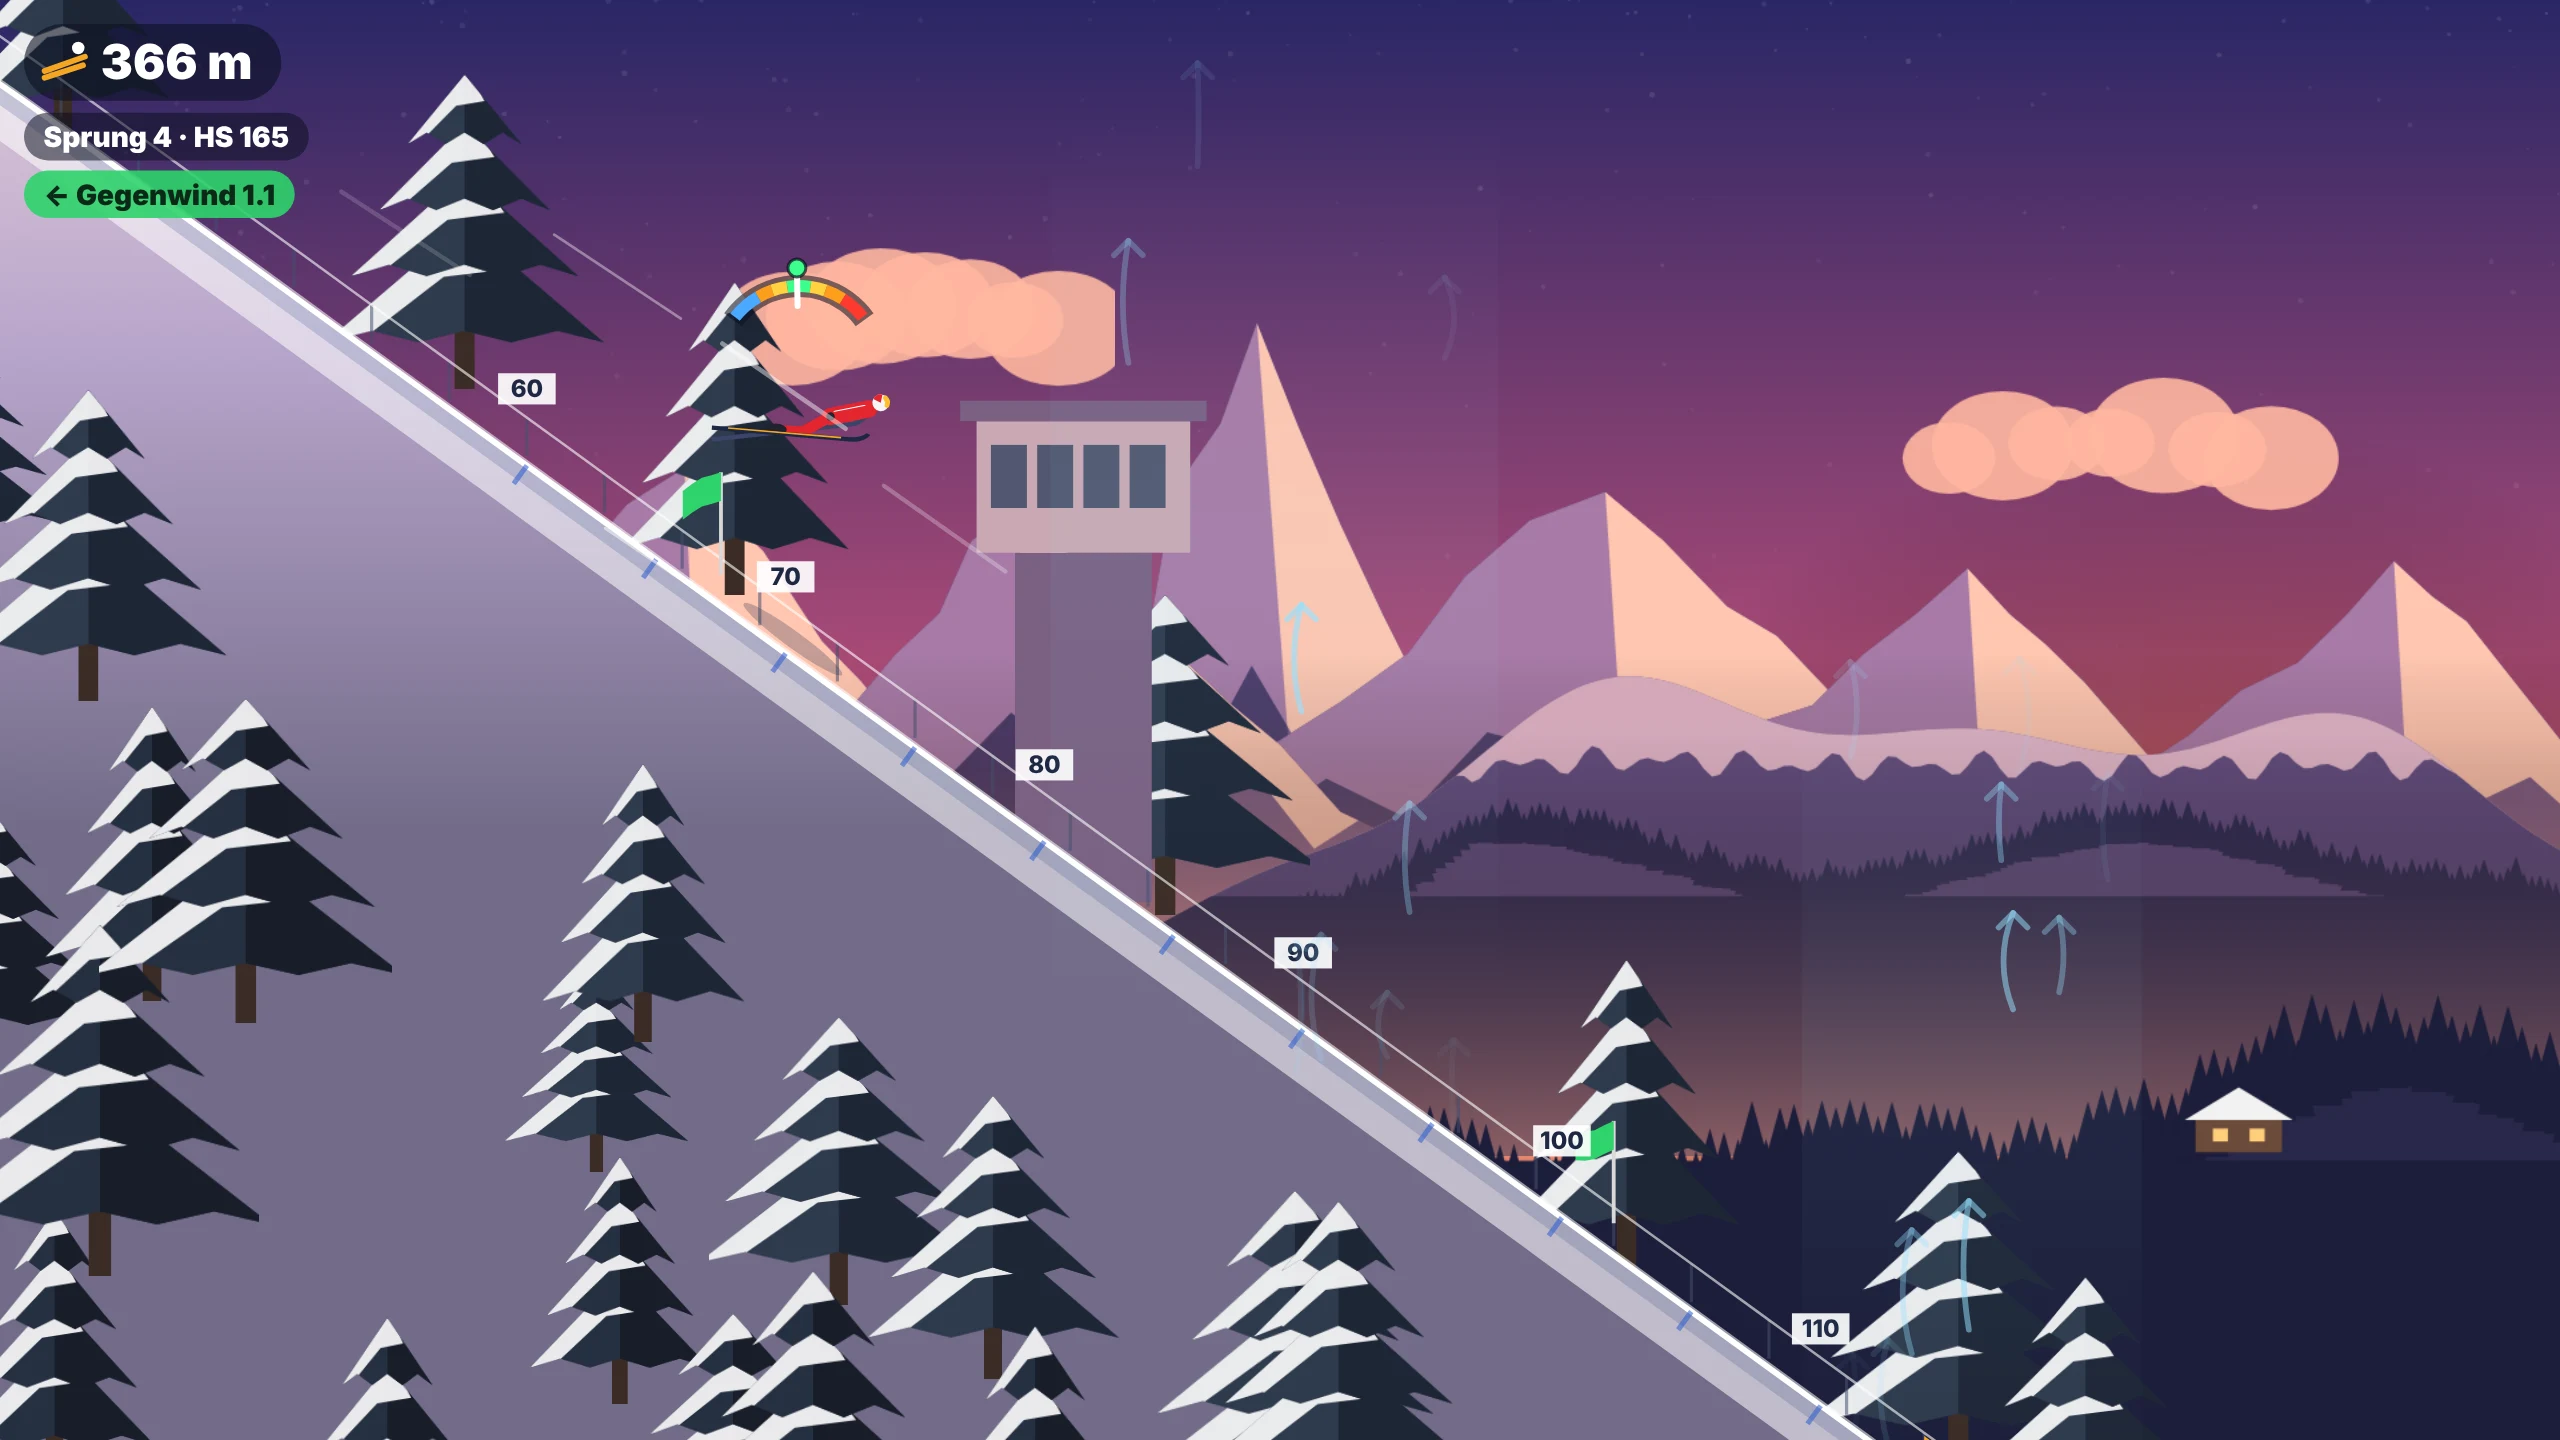
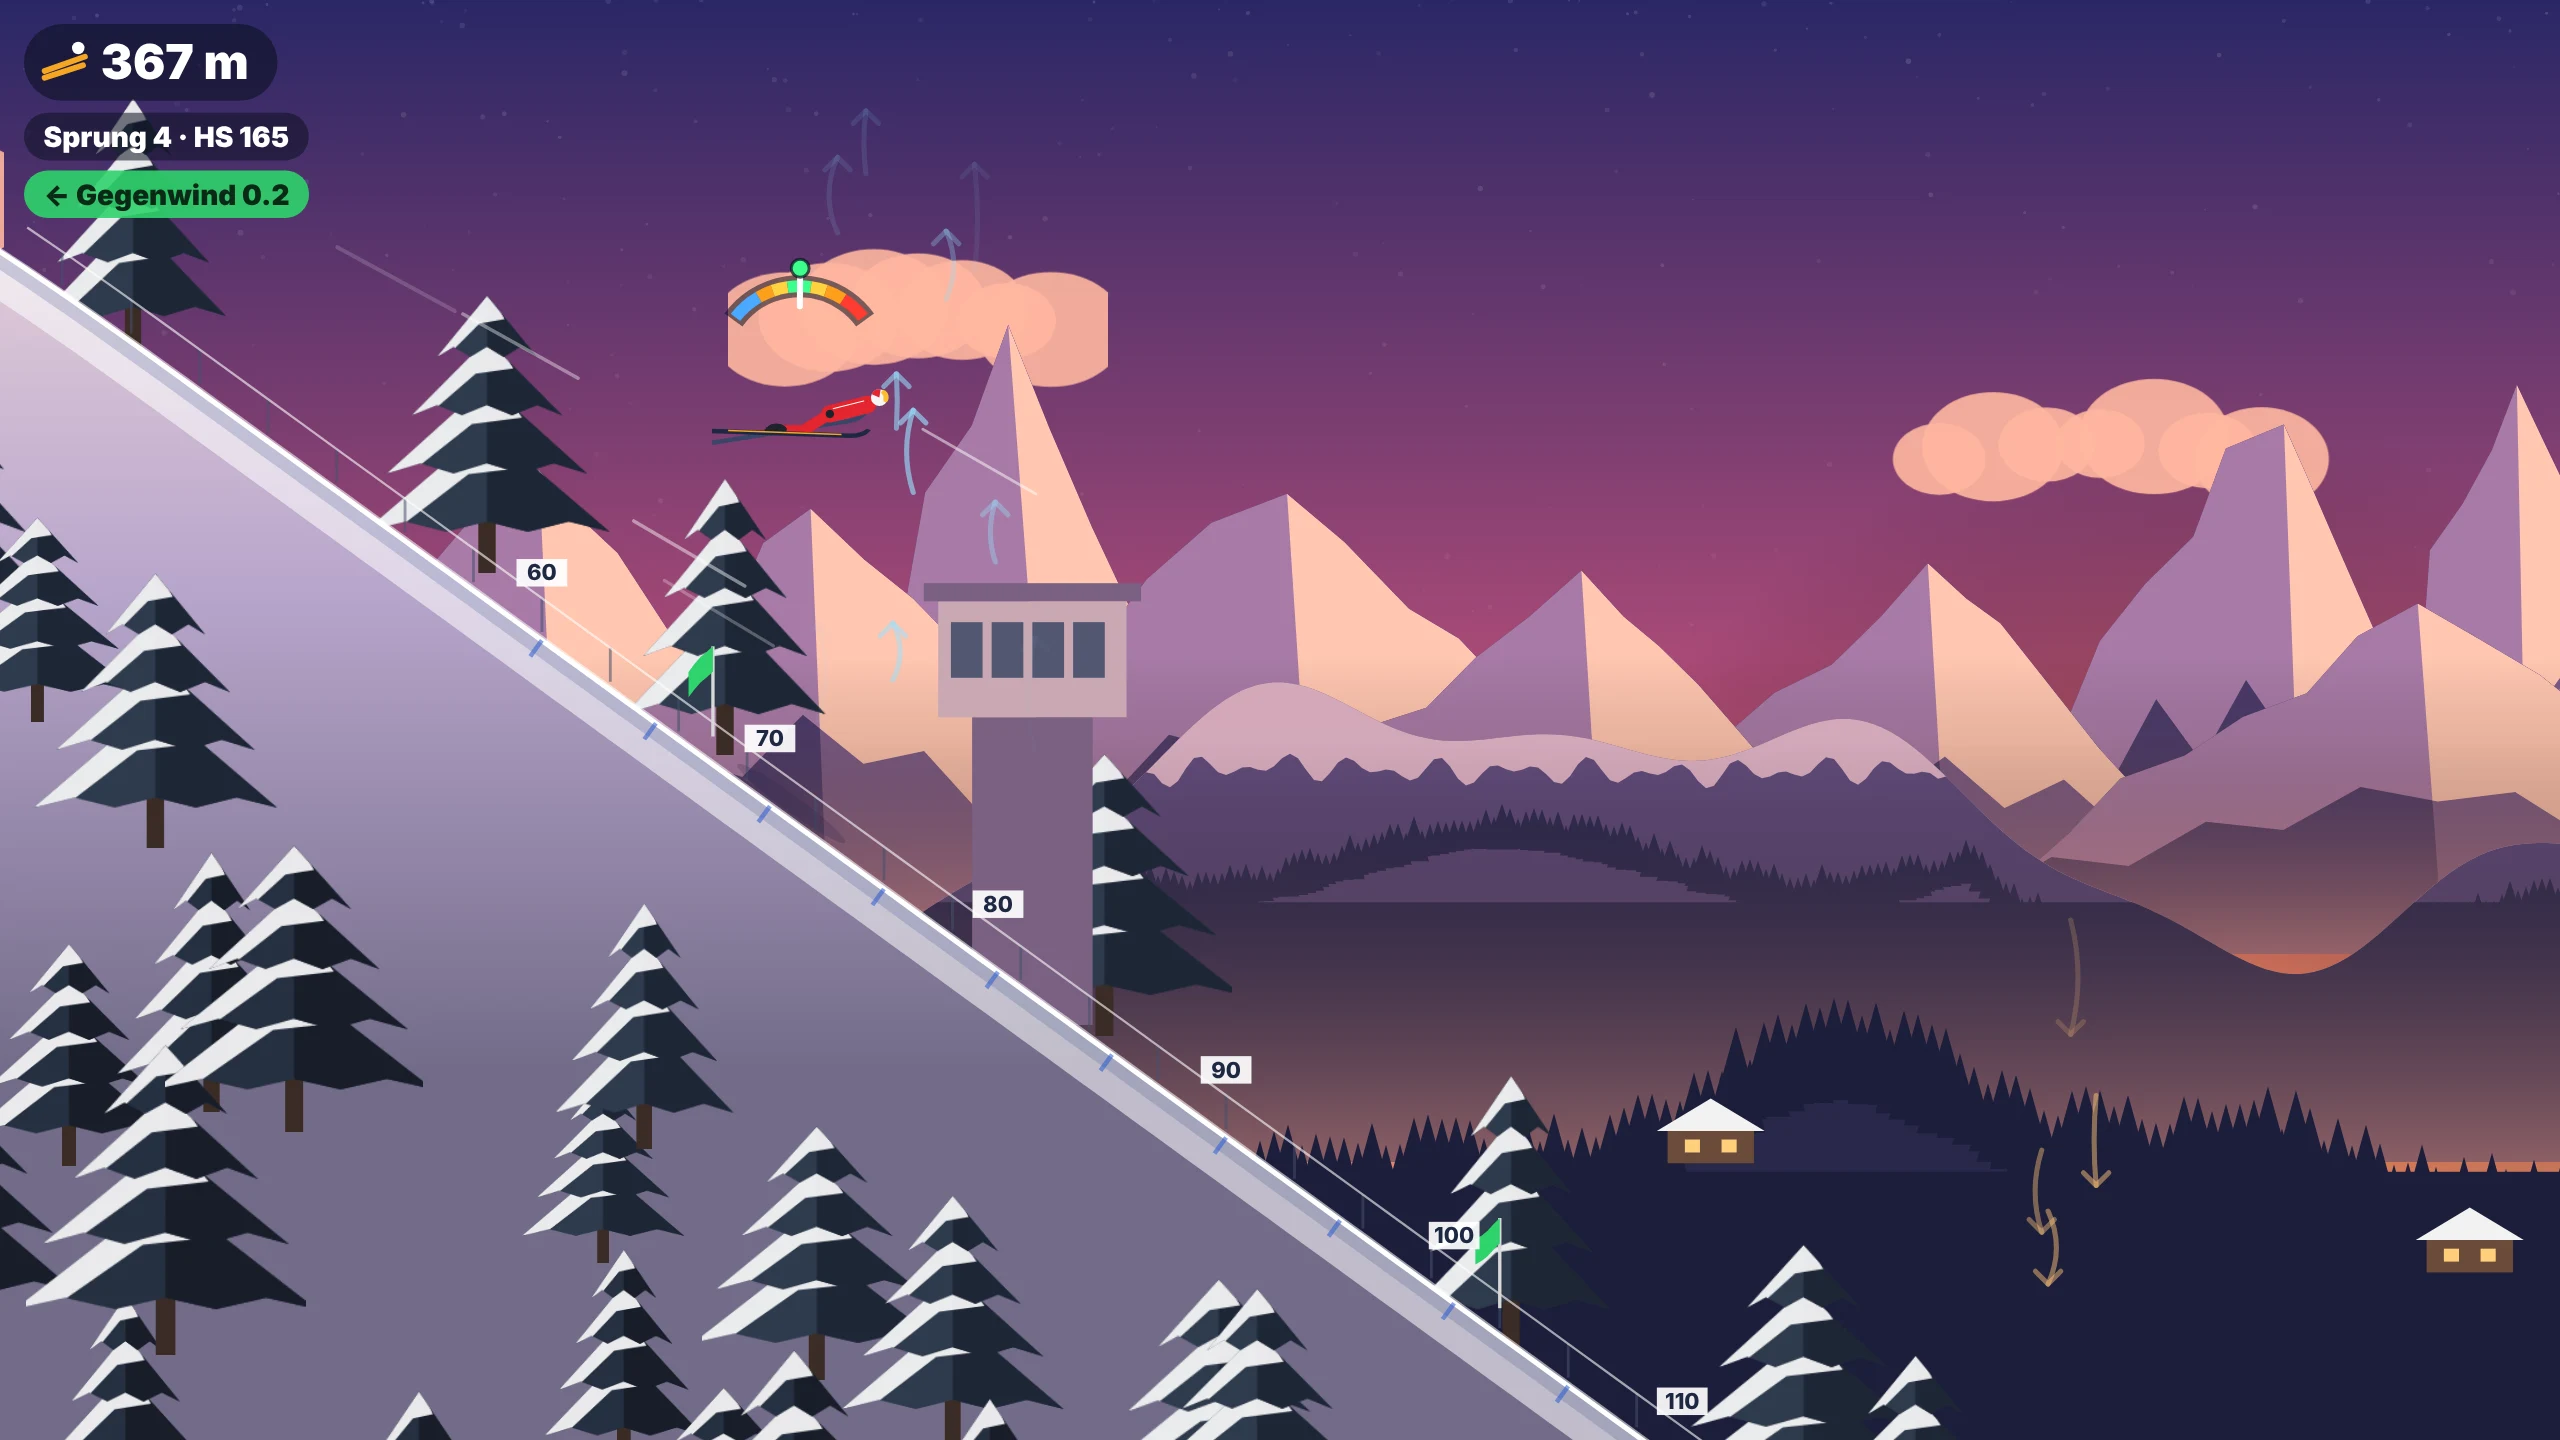
Skispringen: Hintergrund in voller Auflösung, schneller
Himmel und Bergketten liegen in der Auflösung der Leinwand und werden
nur noch kopiert, zugeschnitten auf das Sichtbare; eine Tageszeit im
Speicher. Ohne harte Säulen hinter den Böen. Bilder neu aufgenommen.

Claude-Session: https://claude.ai/code/session_01Psf4iZAqeQEYw64c7esvQu

diff --git a/skispringen.js b/skispringen.js
@@ -595,9 +595,10 @@
    * Leinwänden – der Himmel so gross wie das Bild, die drei Bergketten als
    * Streifen, die sich nahtlos aneinanderreihen. Im Bild werden sie nur
    * kopiert, jede mit ihrer eigenen Verschiebung (Parallaxe): die Alpen
-   * kaum, die Wälder davor mehr. Gemalt wird eine Tageszeit erst, wenn sie
-   * gebraucht wird (zwischen zwei Sprüngen, hinter der Blende), und
-   * höchstens zwei liegen im Speicher.
+   * kaum, die Wälder davor mehr – in der Auflösung der Leinwand, Bildpunkt
+   * für Bildpunkt. Gemalt wird eine Tageszeit erst, wenn sie gebraucht wird
+   * (zwischen zwei Sprüngen, hinter der Blende), und nur eine liegt im
+   * Speicher.
    */
   const TAGESZEITEN = [
     {
@@ -689,16 +690,15 @@
     if (bilder.schluessel !== schluessel) {
       bilder.schluessel = schluessel;
       bilder.tage.clear();
-      bilder.q = Math.min(view.dpr, 1.5);
+      // In der Auflösung der Leinwand: Dann ist jedes Bild nur ein Kopieren,
+      // ohne Skalieren.
+      bilder.q = view.dpr;
     }
     let b = bilder.tage.get(i);
     if (!b) {
-      if (bilder.tage.size >= 2) {
-        // Die am weitesten entfernte Tageszeit macht Platz.
-        let weg = null;
-        bilder.tage.forEach((_, k) => { if (weg === null || Math.abs(k - i) > Math.abs(weg - i)) weg = k; });
-        bilder.tage.delete(weg);
-      }
+      // Nur eine Tageszeit liegt im Speicher: Sie ist so gross wie die
+      // Leinwand, und zurück geht es nie.
+      bilder.tage.clear();
       b = maleTag(i);
       bilder.tage.set(i, b);
     }
@@ -706,7 +706,7 @@
   }
 
   // So breit ist ein Streifen der Berge, bevor er sich wiederholt.
-  const streifenBreite = () => Math.round(Math.max(view.cssW, 640) * 1.6);
+  const streifenBreite = () => Math.round(Math.max(view.cssW, 560) * 1.3);
 
   function maleTag(i) {
     const T = TAGESZEITEN[i];
@@ -907,7 +907,8 @@
 
     // Tannen: drei schlanke und drei im Schatten (für den Wald vorne am
     // Hang), fertig gemalt – im Bild nur noch kopiert.
-    const baeume = [0, 1, 2, 3, 4, 5].map((n) => maleTanne(T, n % 3, n >= 3, i >= 4, q));
+    // Sie werden meist kleiner gezeichnet, als sie gemalt sind: halbe Auflösung genügt.
+    const baeume = [0, 1, 2, 3, 4, 5].map((n) => maleTanne(T, n % 3, n >= 3, i >= 4, Math.min(q, 1.25)));
 
     return { himmel: himmel.c, fern: fern.c, mitte: mitte.c, nah: nah.c, wolken, baeume, TW, fernH, mitteH, nahH, T };
   }
@@ -1041,32 +1042,45 @@
 
   function zeichneHintergrund() {
     const B = tagesBilder(tagBei(state.nr));
+    // In Bildpunkten der Leinwand, ganzzahlig: nur Kopieren.
     g.setTransform(1, 0, 0, 1, 0, 0);
-    g.drawImage(B.himmel, 0, 0, canvas.width, canvas.height);
-    flach();
-    const W = view.cssW;
-    const H = view.cssH;
+    const q = view.dpr;
+    const W = canvas.width;
+    const H = canvas.height;
+    g.drawImage(B.himmel, 0, 0);
     const yRef = state.sch ? state.sch.kPunkt.y * 0.5 : 0;
     const dy = kam.y - yRef;
     // Die Wolken ziehen langsam, unabhängig vom Springer.
+    flach();
     B.wolken.forEach((w, n) => {
-      const breite = W + w.w * 2;
+      const breite = view.cssW + w.w * 2;
       const x = ((((n * 0.37 + 0.1) * breite - state.echt * (4 + n * 2) - kam.x * 0.2) % breite) + breite) % breite - w.w;
-      const y = H * (0.08 + n * 0.09) + dy * 0.1;
+      const y = view.cssH * (0.08 + n * 0.09) + dy * 0.1;
       g.drawImage(w.c, x, y, w.w, w.h);
     });
+    g.setTransform(1, 0, 0, 1, 0, 0);
     for (const e of EBENEN) {
       const bild = B[e.art];
-      const hoch = B[`${e.art}H`];
-      const TW = B.TW;
-      const oben = Math.round(H * e.fuss - hoch + dy * e.py);
-      const x0 = (((-kam.x * e.px) % TW) + TW) % TW - TW;
-      for (let x = x0; x < W; x += TW) g.drawImage(bild, Math.round(x), oben, TW, hoch);
+      const TW = bild.width;
+      const hoch = bild.height;
+      const oben = Math.round((view.cssH * e.fuss - B[`${e.art}H`] + dy * e.py) * q);
+      const x0 = Math.round(((((-kam.x * e.px) % B.TW) + B.TW) % B.TW - B.TW) * q);
+      // Nur kopieren, was im Bild ist – quer und hoch zugeschnitten.
+      const y0 = Math.max(0, -oben);
+      const y1 = Math.min(hoch, H - oben);
+      if (y1 > y0) {
+        for (let x = x0; x < W; x += TW) {
+          const sx = Math.max(0, -x);
+          const sw = Math.min(TW, W - x) - sx;
+          if (sw > 0) g.drawImage(bild, sx, y0, sw, y1 - y0, x + sx, oben + y0, sw, y1 - y0);
+        }
+      }
       if (e.art === "nah" && oben + hoch < H) {
         g.fillStyle = B.T.nah.wald;
         g.fillRect(0, oben + hoch - 1, W, H - oben - hoch + 1);
       }
     }
+    flach();
   }
 
   // ---------------------------------------------------------------------------
@@ -1739,15 +1753,6 @@
       const runter = b.dreh > 0;
       const farbe = runter ? "255, 196, 120" : "150, 225, 255";
       const stark = Math.abs(b.dreh) / 66;
-      // Ein Hauch Farbe über der ganzen Stelle.
-      const mx = (b.x0 + b.x1) / 2;
-      const grund = hangBei(sch, mx).y;
-      const saeule = g.createLinearGradient(0, bildY(grund + hoehe), 0, bildY(grund));
-      saeule.addColorStop(0, `rgba(${farbe}, 0)`);
-      saeule.addColorStop(0.5, `rgba(${farbe}, ${(0.035 + stark * 0.04) * vorbei})`);
-      saeule.addColorStop(1, `rgba(${farbe}, 0)`);
-      g.fillStyle = saeule;
-      g.fillRect(bildX(b.x0), bildY(grund + hoehe), (b.x1 - b.x0) * z, hoehe * z);
       const anzahl = 11;
       g.lineCap = "round";
       for (let n = 0; n < anzahl; n += 1) {
